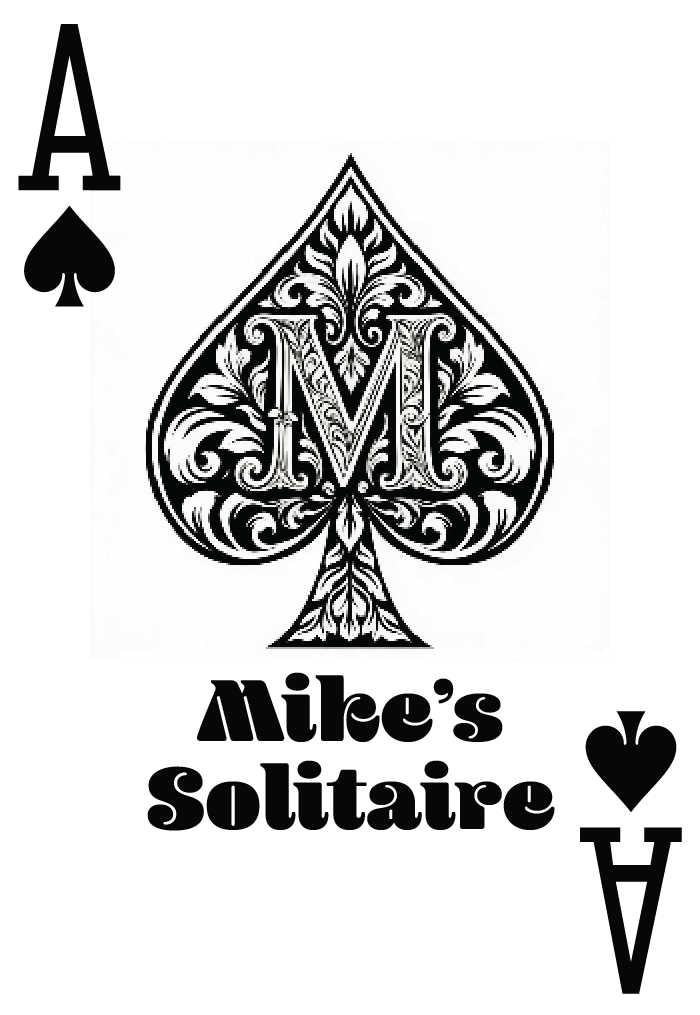
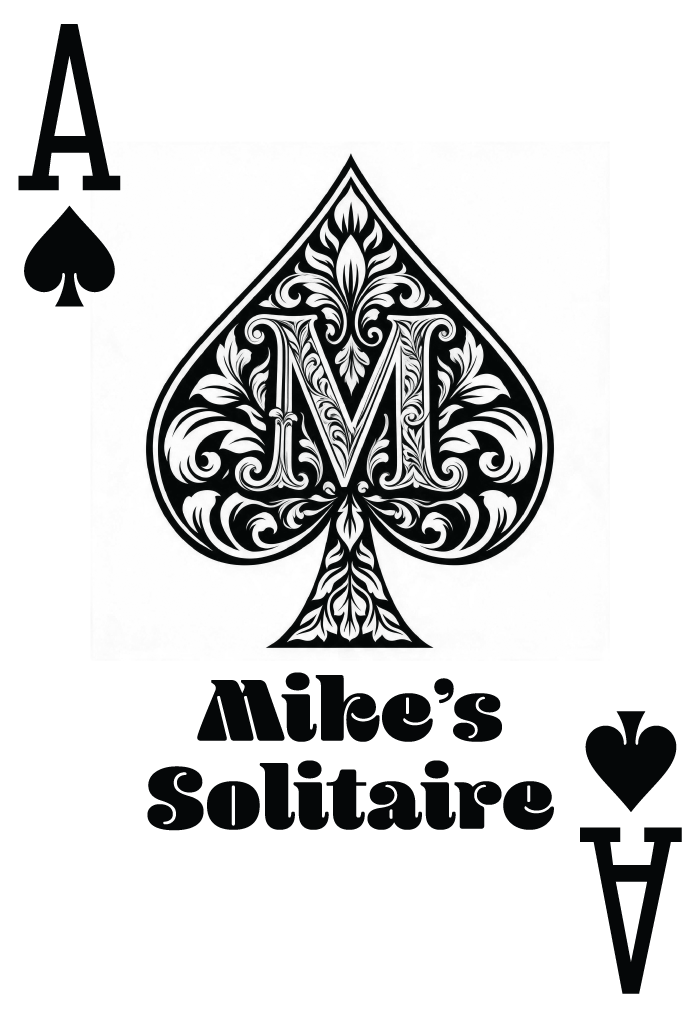
New Ace of Spades art, and bump ASSET_VERSION so it reaches everyone
Replaces assets/cards/XL TX/spade_1_XL.png (same 700x1015 transparent
format as the rest of XL TX). XL TX is served with a year-long immutable
Cache-Control behind ?v=ASSET_VERSION URLs, so the art alone would never
reach anyone who had already loaded the old ace: ASSET_VERSION v8 -> v9.
APP_VERSION bumped to 2026.09.24.0048 so this build (which also carries
the viewport-lock fix) is identifiable in Settings. whats-new.test.js's
version pin now expects v9.

diff --git a/whats-new.test.js b/whats-new.test.js
@@ -89,14 +89,16 @@ test('the shipped copy says the three things it needs to', () => {
   assert.match(sheet, /id="whatsNewGotItBtn"[^>]*>Got it</);
 });
 
-test('release metadata: APP_VERSION advanced, ASSET_VERSION untouched', () => {
+test('release metadata: APP_VERSION advanced, ASSET_VERSION follows the art', () => {
   // APP_VERSION is what lets you glance at Settings and tell a fresh build
   // from a stale cached one. ASSET_VERSION is the card-art cache-buster and
-  // must NOT move for a release that changes no art: bumping it would dump
-  // a year-immutable art cache for every player and buy nothing.
+  // must move only when card art changes: bumping it dumps a year-immutable
+  // art cache for every player. v9 is the new Ace of Spades
+  // (XL TX/spade_1_XL.png) - without the bump, anyone who had already
+  // loaded the old ace would keep seeing it for up to a year.
   const app = SCRIPT.match(/const APP_VERSION = '([\d.]+)'/);
   assert.ok(app, 'APP_VERSION must exist');
   assert.notEqual(app[1], '2026.08.12.1129', 'APP_VERSION must be bumped for this release');
   assert.match(app[1], /^\d{4}\.\d{2}\.\d{2}\.\d{4}$/, 'same YYYY.MM.DD.HHmm convention');
-  assert.match(SCRIPT, /const ASSET_VERSION = 'v8'/, 'no card art changed, so this must not move');
+  assert.match(SCRIPT, /const ASSET_VERSION = 'v9'/, 'bumped for the new Ace of Spades art - move it again only when art changes');
 });

diff --git a/script.js b/script.js
@@ -483,7 +483,7 @@ function initIntro() {
   // to track features, it's to let you glance at Settings on any given
   // tab/device and immediately tell whether it's running the build you just
   // pushed or a stale cached one from before.
-  const APP_VERSION = '2026.09.21.1333';
+  const APP_VERSION = '2026.09.24.0048';
 
   // Cache-buster on every card image URL, not a build/deploy version -
   // bump this by hand whenever the card art itself changes. It's what
@@ -495,7 +495,7 @@ function initIntro() {
   // cache-buster on the compositor's own source-layer requests (DIRTYS/
   // TX/WHITE - see card-face-compositor.js) - one shared version constant
   // rather than a second one that could drift from this.
-  const ASSET_VERSION = 'v8'; // bumped: Regular/Simple faces now composite from STANDARD TX/SIMPLE TX instead of the old pre-baked art
+  const ASSET_VERSION = 'v9'; // bumped: new Ace of Spades art (XL TX/spade_1_XL.png)
 
   // Synchronous and never-throwing, same contract this always had - every
   // call site just does img.src = cardImageSrc(...). Delegates the actual
